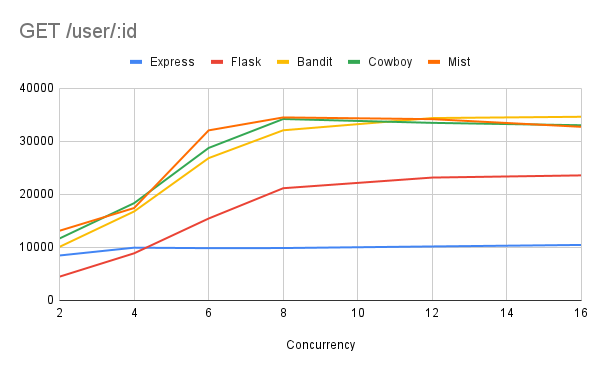
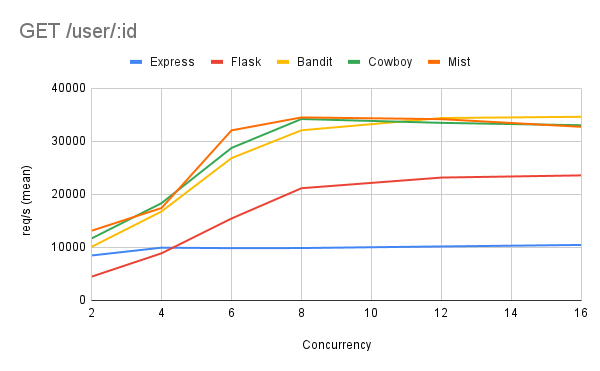
fix units in tables / graphs

diff --git a/README.md b/README.md
@@ -31,33 +31,33 @@ Each application was tested with [Apache Bench](https://httpd.apache.org/docs/2.
 
 #### `GET /`
 
-|Framework|1|2|4|6|8|12|16
+|Framework|Concurrency 1|2|4|6|8|12|16
 |---|---|---|---|---|---|---|---
-|Express|8952.97|10398.35|10453.25|10726.25|10954.96|11140.63|11371.71
-|Flask|4722.5|9277.17|16023.98|21834.93|24013.25|24965.03|25074.79
-|Bandit|10557.88|17027.62|28056.04|34736.18|37160.05|35765.72|34239.14
-|Cowboy|12428.26|13945.09|27476.05|34111.56|35330.74|34133.07|33449.08
-|Mist|13811.33|19193.43|31206.05|35070.37|35175.94|34335.81|33713.62
+|Express|8952.97 req/s|10398.35 req/s|10453.25 req/s|10726.25 req/s|10954.96 req/s|11140.63 req/s|11371.71 req/s
+|Flask|4722.5 req/s|9277.17 req/s|16023.98 req/s|21834.93 req/s|24013.25 req/s|24965.03 req/s|25074.79 req/s
+|Bandit|10557.88 req/s|17027.62 req/s|28056.04 req/s|34736.18 req/s|37160.05 req/s|35765.72 req/s|34239.14 req/s
+|Cowboy|12428.26 req/s|13945.09 req/s|27476.05 req/s|34111.56 req/s|35330.74 req/s|34133.07 req/s|33449.08 req/s
+|Mist|13811.33 req/s|19193.43 req/s|31206.05 req/s|35070.37 req/s|35175.94 req/s|34335.81 req/s|33713.62 req/s
 
 #### `GET /user/:id`
 
-|Framework|1|2|4|6|8|12|16
+|Framework|Concurrency 1|2|4|6|8|12|16
 |---|---|---|---|---|---|---|---
-|Express|8476.3|9949.01|9860.32|9879.97|10179.87|10464.82|10776.43
-|Flask|4484.78|8886.25|15448.45|21158.42|23167.78|23578.02|23846.8
-|Bandit|10104.61|16774.07|26835.23|32081.17|34386.5|34628.57|33622.31
-|Cowboy|11684.54|18342.67|28752.03|34206.92|33481.84|33029.61|32071.79
-|Mist|13140.68|17425.42|32065.74|34504.78|34178.63|32732.24|31909.85
+|Express|8476.3 req/s|9949.01 req/s|9860.32 req/s|9879.97 req/s|10179.87 req/s|10464.82 req/s|10776.43 req/s
+|Flask|4484.78 req/s|8886.25 req/s|15448.45 req/s|21158.42 req/s|23167.78 req/s|23578.02 req/s|23846.8 req/s
+|Bandit|10104.61 req/s|16774.07 req/s|26835.23 req/s|32081.17 req/s|34386.5 req/s|34628.57 req/s|33622.31 req/s
+|Cowboy|11684.54 req/s|18342.67 req/s|28752.03 req/s|34206.92 req/s|33481.84 req/s|33029.61 req/s|32071.79 req/s
+|Mist|13140.68 req/s|17425.42 req/s|32065.74 req/s|34504.78 req/s|34178.63 req/s|32732.24 req/s|31909.85 req/s
 
 #### `POST /user`
 
-|Framework|1|2|4|6|8|12|16
+|Framework|Concurrency 1|2|4|6|8|12|16
 |---|---|---|---|---|---|---|---
-|Express|10528.1|12473.9|12698.34|13029.17|13339.65|13573.34|13739.57
-|Flask|3922.71|7752.45|13396.61|15671.91|17333.76|17734.77|17883.44
-|Bandit|9942.05|16444.54|25495.91|32302.55|34317.92|34563.48|33021.81
-|Cowboy|10736.79|17348.6|26738.27|32619.88|33145.65|31880.68|31114.89
-|Mist|10614.53|16528.11|28484.6|32541.95|32069.02|31475.89|30745.45
+|Express|10528.1 req/s|12473.9 req/s|12698.34 req/s|13029.17 req/s|13339.65 req/s|13573.34 req/s|13739.57 req/s
+|Flask|3922.71 req/s|7752.45 req/s|13396.61 req/s|15671.91 req/s|17333.76 req/s|17734.77 req/s|17883.44 req/s
+|Bandit|9942.05 req/s|16444.54 req/s|25495.91 req/s|32302.55 req/s|34317.92 req/s|34563.48 req/s|33021.81 req/s
+|Cowboy|10736.79 req/s|17348.6 req/s|26738.27 req/s|32619.88 req/s|33145.65 req/s|31880.68 req/s|31114.89 req/s
+|Mist|10614.53 req/s|16528.11 req/s|28484.6 req/s|32541.95 req/s|32069.02 req/s|31475.89 req/s|30745.45 req/s
 
 ![GET /](/results/GET%20_.png)
 
